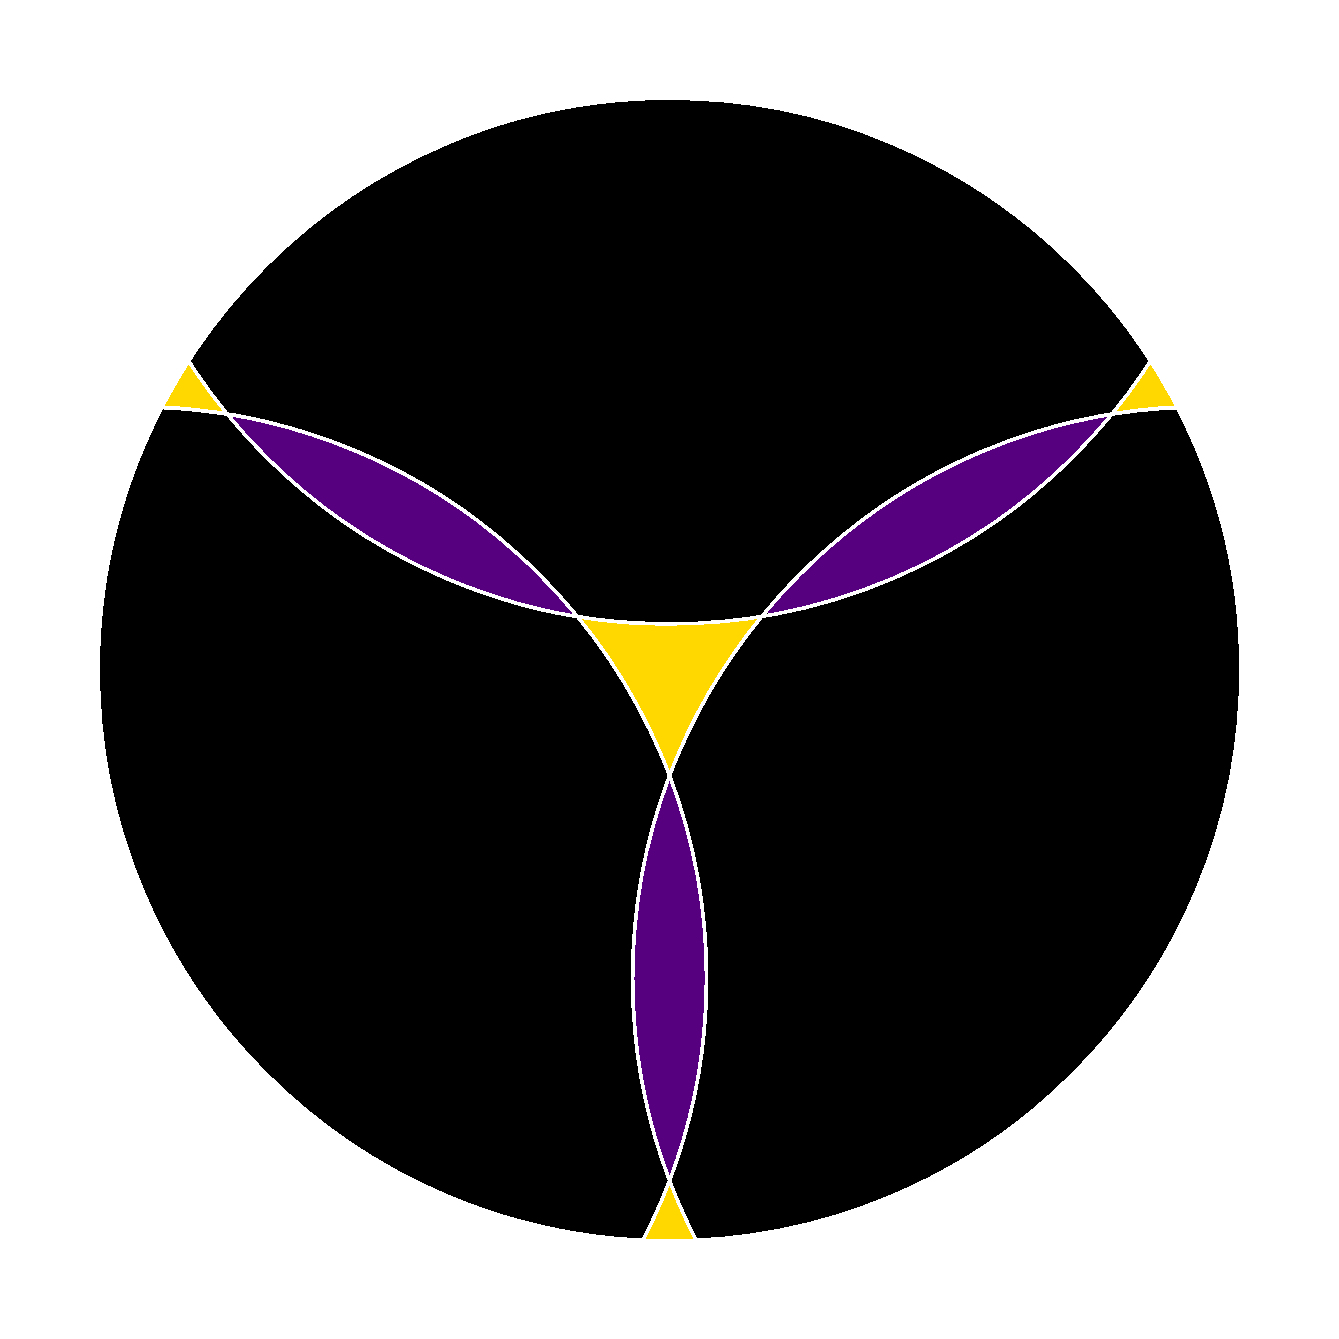
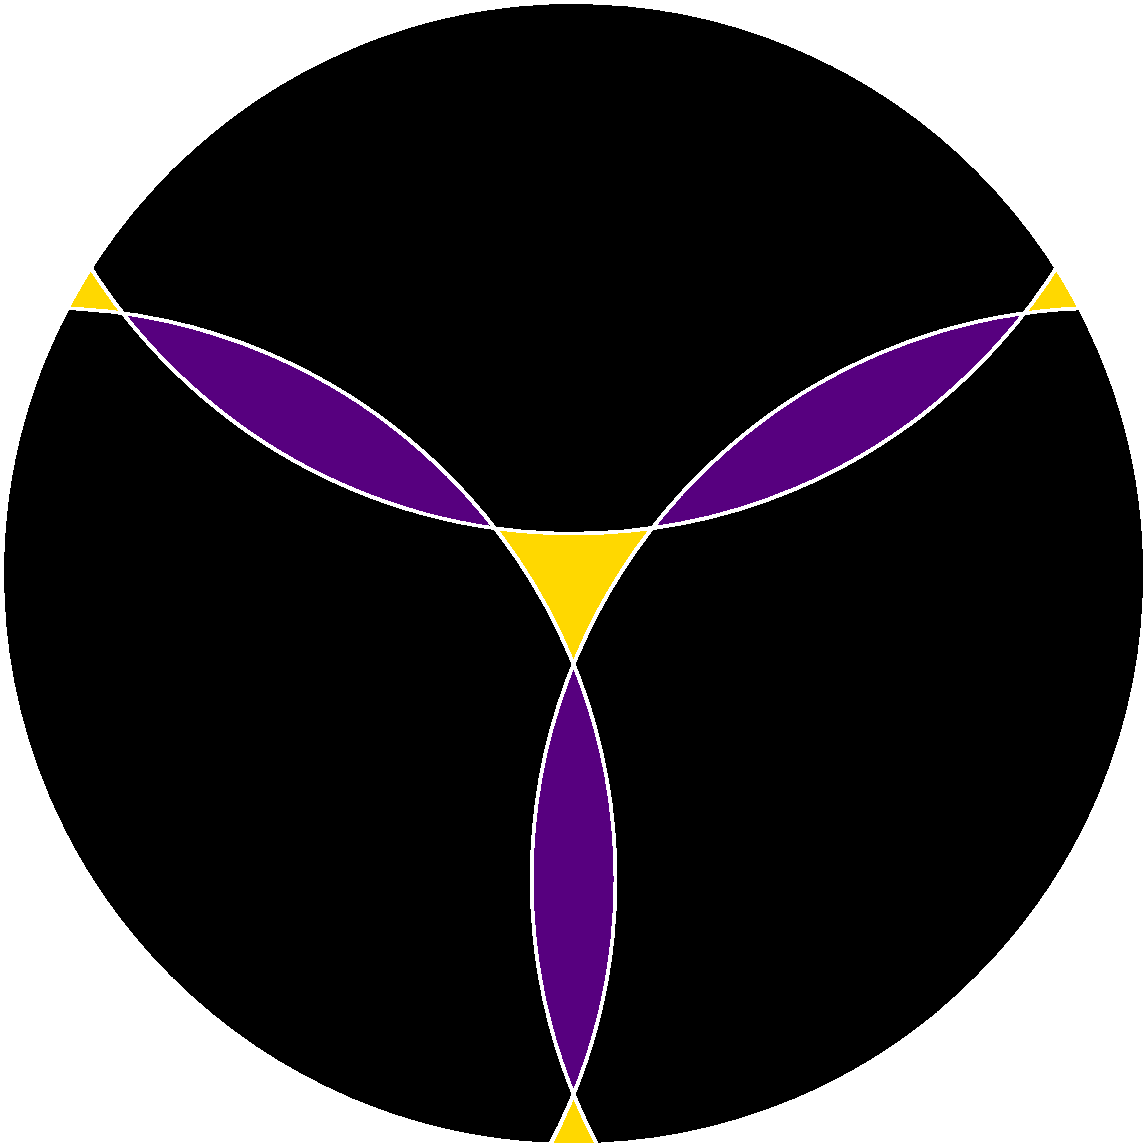
lined up elements in circle

diff --git a/VectorGraphic.py b/VectorGraphic.py
@@ -77,7 +77,7 @@ svg_document = pysvg.structure.Svg()
 shape_builder = pysvg.builders.ShapeBuilder()
 
 # Aufruf der Funktion zum Zeichnen der Kreise
-paint_circles(3, 108, svg_document, shape_builder)
+paint_circles(3, 107, svg_document, shape_builder)
 
 # Ausgabe der XML der Vektorgrafik
 print(svg_document.getXML())

diff --git a/README.md b/README.md
@@ -1,2 +1,2 @@
 # dms
-a project with mixed up code samples to help me learn python
+vector graphic test project
